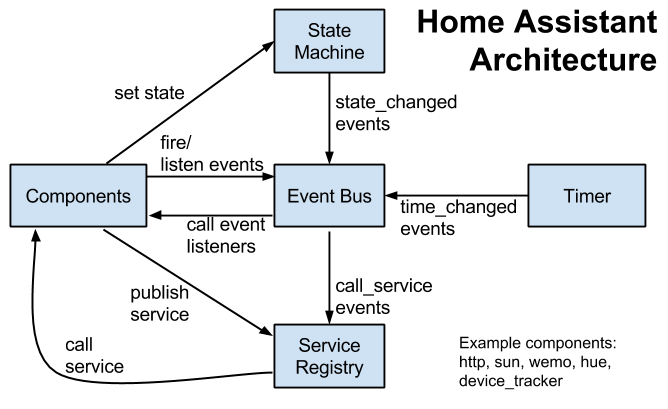
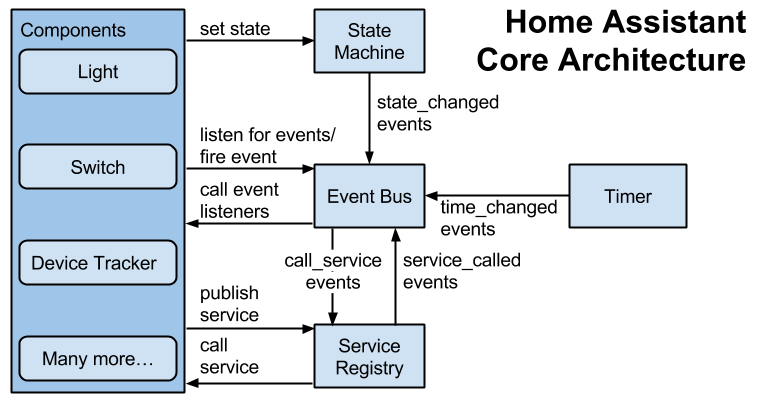
Site updated at 2014-12-27 06:29:04 UTC

diff --git a/developers/architecture.html b/developers/architecture.html
@@ -113,7 +113,7 @@
 </p>
 
 
-<p>The core of Home Assistant is responsible for the Home Control part and is made up:</p>
+<p>The Home Assistant core is responsible for Home Control. It has four parts to make this possible:</p>
 
 <ul>
 <li>The <strong>Event Bus</strong> facilitates the firing and listening of events. This is the beating heart of Home Assistant.</li>
@@ -127,7 +127,7 @@
   <a href='/images/architecture/ha_architecture.png'>
     <img src='/images/architecture/ha_architecture.png' />
   </a>
-  Overview of the Home Assistant architecture
+  Overview of the Home Assistant core architecture
 </p>
 
 
@@ -138,7 +138,7 @@ components within Home Assistant.</p>
 
 <h4>Components that interact with an Internet of Things domain</h4>
 
-<p>These components will track devices within a specific domain and make this information available via the State Machine and the Event Bus. The component will also register services in the Service Registry to expose control of the devices. Each of these components exist of a core part and small pieces of platform specific logic.</p>
+<p>These components will track devices within a specific domain and exist of a core part and platform specific logic. These components make their information available via the State Machine and the Event Bus. The component will also register services in the Service Registry to expose control of the devices.</p>
 
 <p>For example, one of the built-in components is the <code>switch</code> component. This component is responsible for interaction with different types of switches.</p>
 
@@ -173,9 +173,23 @@ components within Home Assistant.</p>
 
 <p>Another example of a home automation component can be found in <a href="https://github.com/balloob/home-assistant/blob/master/config/custom_components/example.py"><code>/config/custom_components/example.py</code></a>.</p>
 
+<h3>The full picture</h3>
+
+<p>When we put all the different pieces of Home Assistant together we see that we match pretty close to the initial sketched home automation overview. The smart home AI is not implemented yet and therefor ommitted from the following picture.</p>
+
+<p class='img'>
+  <a href='/images/architecture/ha_full_architecture.png'>
+    <img src='/images/architecture/ha_full_architecture.png' />
+  </a>
+  Overview of the full Home Assistant architecture with a couple of loaded components and platforms.
+</p>
+
+
+<p>Component&rsquo;s platform logic uses 3rd party Python libraries to communicate with the devices. This is done so that we can leverage great device libraries that are out there in the Python community.</p>
+
 <h2>Multiple connected instances</h2>
 
-<p>Home Assistant supports running multiple synchronzied instances using a master-slave model. Slaves forward all local fired events and set states to the master instance which will then replicate it to each slave.</p>
+<p>Home Assistant supports running multiple synchronzied instances using a master-slave model. Whenever <code>events.fire</code> or <code>states.set</code> is called on the salve it will forward it to the master. The master will replicate all events and changed states to its slaves.</p>
 
 <p class='img'>
   <a href='/images/architecture/architecture-remote.png'>
